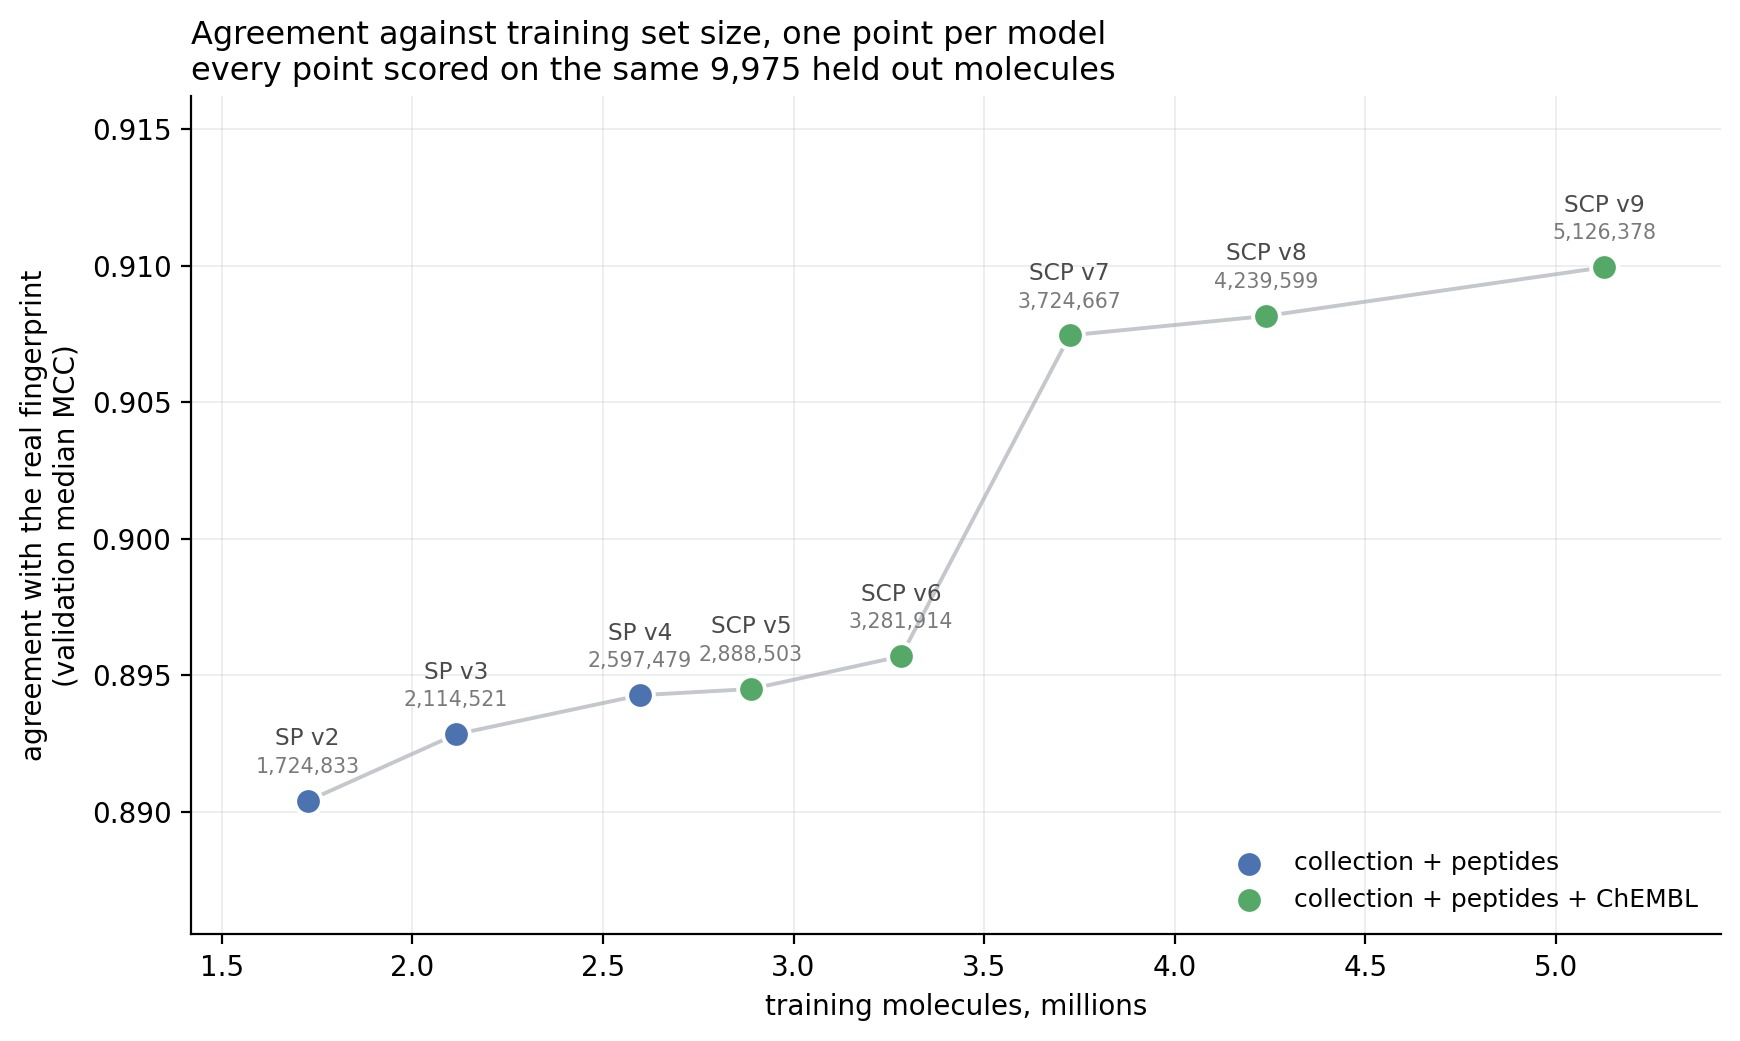
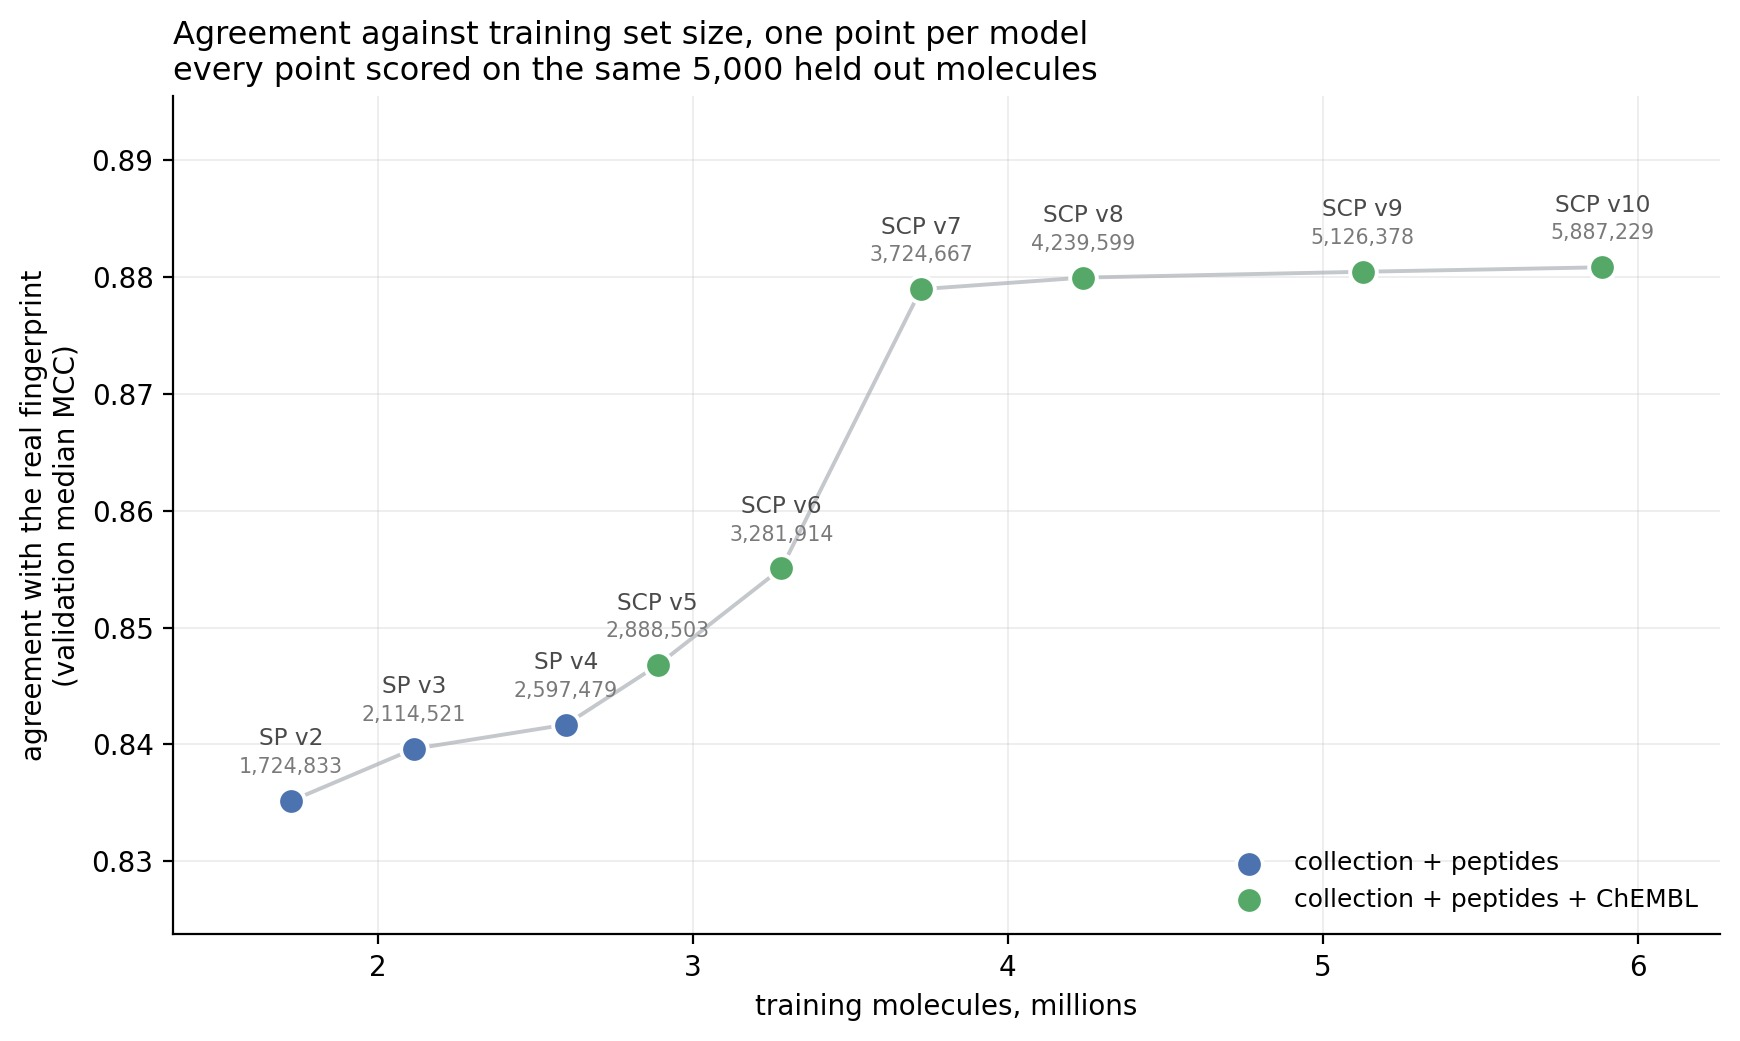
Release PharmCast SCP v10
v10 is the current model. v9, v8 and v7 stay downloadable and their
digests stay in the append-only SHA256SUMS, so a published result stays
reproducible. Outside those download rows and the multi-version figures
that plot the whole family by construction, this repository describes
v10 and nothing else.

Trained on a sealed snapshot of 5,946,696 molecules (4,609,488 screening
collection, 1,214,214 activity-backed ChEMBL from 142 to 1000 Da,
122,994 loop peptides), 5,887,229 of them for gradient updates after a
1% molecular-weight-stratified stopping split. 100 epochs, epoch 68
restored. Architecture unchanged: 2,059 inputs, 1,024 and 512 hidden,
10,549 outputs, 8,045,877 parameters.

Every checkpoint fact was read off the checkpoint itself and the digest
taken locally rather than copied from a handoff prefix.

Accuracy leads with the reserved peptide test set: 13,500 loops held
back from the corpus and never trained on, median MCC 0.914. The
catalogue row carries its n for a reason. Catalogue fingerprinting is
now complete at 99.83% of eligible, so only 13,373 molecules remain
outside training and that residue is the tail of a finished build rather
than a representative sample.

Worked examples re-measured under v10, not edited: estradiol against
diethylstilbestrol 0.784, aspirin against salicylate 0.363, paracetamol
47 bits, and saquinavir against indinavir predicted 0.843 against the
reference 0.841.
[…]

diff --git a/README.md b/README.md
@@ -65,8 +65,8 @@ what scaffold hopping looks like from inside the descriptor.*
 ensemble and runs the reference calculation over it. PharmCast predicts the same
 ensemble record from the two dimensional structure and skips the ensemble
 entirely. Panel E is saquinavir against indinavir, two HIV-1 protease
-inhibitors, scored by PharmCast SCP v9: the reference calculation gives a
-pharmacophoric similarity of 0.841 and PharmCast predicts 0.873, where a two
+inhibitors, scored by PharmCast SCP v10: the reference calculation gives a
+pharmacophoric similarity of 0.841 and PharmCast predicts 0.843, where a two
 dimensional Morgan Tanimoto puts the same pair at 0.303. That gap is the whole
 point of the descriptor. The network is 2,059 inputs, hidden layers of 1,024 and
 512, and one output unit per pharmacophore, 10,549 in total, for 8,045,877
@@ -108,8 +108,9 @@ checksummed, from **<https://pharmcast.ai/models>**.
 
 | Model | Endpoint | SHA-256 |
 |---|---|---|
-| **PharmCast SCP v9** (current) | [`/models/pharmcast_scp_v9.pt`](https://pharmcast.ai/models/pharmcast_scp_v9.pt) | `1c0be82e…209699c6` |
-| PharmCast SCP v8 (superseded) | [`/models/pharmcast_scp_v8.pt`](https://pharmcast.ai/models/pharmcast_scp_v8.pt) | `d1389037…ac8f42ab5` |
+| **PharmCast SCP v10** (current) | [`/models/pharmcast_scp_v10.pt`](https://pharmcast.ai/models/pharmcast_scp_v10.pt) | `b25ad356…d36284cf` |
+| PharmCast SCP v9 | [`/models/pharmcast_scp_v9.pt`](https://pharmcast.ai/models/pharmcast_scp_v9.pt) | `1c0be82e…209699c6` |
+| PharmCast SCP v8 | [`/models/pharmcast_scp_v8.pt`](https://pharmcast.ai/models/pharmcast_scp_v8.pt) | `d1389037…ac8f42ab5` |
 | *(all releases, append-only)* | [`/models/SHA256SUMS`](https://pharmcast.ai/models/SHA256SUMS) | n/a |
 
 Superseded releases move to the **[archive](https://pharmcast.ai/models/#archive)**
@@ -118,21 +119,21 @@ on the model page. They stay downloadable and their checksums stay in
 not what new work should use.
 
 ```bash
-curl -O https://pharmcast.ai/models/pharmcast_scp_v9.pt
+curl -O https://pharmcast.ai/models/pharmcast_scp_v10.pt
 curl -O https://pharmcast.ai/models/SHA256SUMS
 shasum -a 256 -c SHA256SUMS                      # macOS / Linux
-certutil -hashfile pharmcast_scp_v9.pt SHA256    # Windows
+certutil -hashfile pharmcast_scp_v10.pt SHA256    # Windows
 ```
 
-**SCP v9 is the current model**, and everything below describes it. Superseded
+**SCP v10 is the current model**, and everything below describes it. Earlier
 checkpoints stay downloadable and their checksums stay in `SHA256SUMS`, which is
 append-only, so a result computed against one remains reproducible.
 
-It is trained on a sealed snapshot of 5,178,160 molecules: 4,099,846 screening
-collection, 947,414 ChEMBL, 130,900 loop peptides, of which 1% was held out as a
-molecular-weight-stratified stopping set, leaving 5,126,378 for gradient
-updates. It ran 100 epochs on the Apple GPU in 353 minutes and the weights of
-epoch 73 were restored. 2,059 binary2048 inputs, hidden layers of 1,024 and 512,
+It is trained on a sealed snapshot of 5,946,696 molecules: 4,609,488 screening
+collection, 1,214,214 activity-backed ChEMBL from 142 to 1000 Da, and 122,994
+loop peptides. 1% was held out as a molecular-weight-stratified stopping set,
+leaving 5,887,229 for gradient updates. It ran 100 epochs and the weights of
+epoch 68 were restored. 2,059 binary2048 inputs, hidden layers of 1,024 and 512,
 batch 256, learning rate 0.001, 10,549 outputs, 8,045,877 parameters.
 
 **A published checkpoint is never replaced in place.** A new release is added
@@ -147,21 +148,21 @@ Everything below is the command line. Install, download a model, run.
 ```bash
 pip install -e .
 # weights are served from the site, not committed; verify what you got
-curl -LO https://pharmcast.ai/models/pharmcast_scp_v9.pt
+curl -LO https://pharmcast.ai/models/pharmcast_scp_v10.pt
 curl -LO https://pharmcast.ai/models/SHA256SUMS
-shasum -a 256 -c SHA256SUMS 2>/dev/null | grep pharmcast_scp_v9
+shasum -a 256 -c SHA256SUMS 2>/dev/null | grep pharmcast_scp_v10
 ```
 
 Then fingerprint a file of SMILES:
 
 ```bash
-pharmcast --model pharmcast_scp_v9.pt fp --in examples/data/molecules.smi --out molecules.pfp
+pharmcast --model pharmcast_scp_v10.pt fp --in examples/data/molecules.smi --out molecules.pfp
 ```
 
 Compare two molecules:
 
 ```bash
-pharmcast --model pharmcast_scp_v9.pt sim \
+pharmcast --model pharmcast_scp_v10.pt sim \
   "C[C@]12CC[C@H]3[C@H](CCc4cc(O)ccc34)[C@@H]1CC[C@@H]2O" \
   'CC/C(=C(/CC)c1ccc(O)cc1)c1ccc(O)cc1'
 ```
@@ -169,7 +170,7 @@ pharmcast --model pharmcast_scp_v9.pt sim \
 Screen a library for nearest neighbours:
 
 ```bash
-pharmcast --model pharmcast_scp_v9.pt screen \
+pharmcast --model pharmcast_scp_v10.pt screen \
   --queries queries.smi --targets library.smi --top 10
 ```
 
@@ -182,14 +183,14 @@ pharmcast screen --queries queries.pfp --targets library.pfp --top 10
 See the bits:
 
 ```bash
-pharmcast --model pharmcast_scp_v9.pt bits "CC(=O)Nc1ccc(O)cc1" --width 120
+pharmcast --model pharmcast_scp_v10.pt bits "CC(=O)Nc1ccc(O)cc1" --width 120
 pfp2bits molecules.pfp --format positions
 ```
 
 And ask the model what it is:
 
 ```bash
-pharmcast --model pharmcast_scp_v9.pt card
+pharmcast --model pharmcast_scp_v10.pt card
 ```
 
 ## Screening a library
@@ -279,11 +280,11 @@ path and prints its own output; nothing needs editing first.
 
 ```bash
 cd examples
-./01_fingerprint.sh  /path/to/pharmcast_scp_v9.pt   # SMILES file -> native .pfp
-./02_similarity.sh   /path/to/pharmcast_scp_v9.pt   # 3D vs 2D similarity, three pairs
-./03_bits.sh         /path/to/pharmcast_scp_v9.pt   # fingerprints -> ones and zeros
-./04_model_card.sh   /path/to/pharmcast_scp_v9.pt   # corpus and applicability domain
-./05_screen.sh       /path/to/pharmcast_scp_v9.pt   # rank a library against queries
+./01_fingerprint.sh  /path/to/pharmcast_scp_v10.pt   # SMILES file -> native .pfp
+./02_similarity.sh   /path/to/pharmcast_scp_v10.pt   # 3D vs 2D similarity, three pairs
+./03_bits.sh         /path/to/pharmcast_scp_v10.pt   # fingerprints -> ones and zeros
+./04_model_card.sh   /path/to/pharmcast_scp_v10.pt   # corpus and applicability domain
+./05_screen.sh       /path/to/pharmcast_scp_v10.pt   # rank a library against queries
 ```
 
 `02_similarity.sh` is the one to run first. It scores three pairs **both ways**,
@@ -292,12 +293,12 @@ alone does not tell you anything:
 
 ```
                                       3D (PharmCast)   2D (Morgan)
-  estradiol / diethylstilbestrol      pharmacophore 0.821    2D 0.163
-  aspirin / salicylate                pharmacophore 0.348    2D 0.448
+  estradiol / diethylstilbestrol      pharmacophore 0.784    2D 0.163
+  aspirin / salicylate                pharmacophore 0.363    2D 0.448
   caffeine / ibuprofen                pharmacophore 0.000    2D 0.087
 ```
 
-*Numbers above are real output from `02_similarity.sh` on **SCP v9**. They move
+*Numbers above are real output from `02_similarity.sh` on **SCP v10**. They move
 with the model, so if your output differs, check the checkpoint's sha256 and
 your RDKit version before anything else.*
 
@@ -363,13 +364,13 @@ number derived from different typing would be worse than writing none.
 
 ```
 $ pfp2bits library.pfp --width 120
->paracetamol  set=50/10549  version=v1.6  mw=151.2  heavy=11  bits=47  rotb=1  nconf=100
+>paracetamol  set=47/10549  version=v1.6  mw=151.2  heavy=11  bits=47  rotb=1  nconf=100
 111000101000100001000000000000000000001000000000000000000000000000000000000000000000111000110100011000001000000000000000
 ```
 
 It loads no model, because the fingerprints are already in the file.
 
-*Bit counts above are **SCP v9**. `--width 120` prints the first 120 of 10,549
+*Bit counts above are **SCP v10**. `--width 120` prints the first 120 of 10,549
 pharmacophores, so it is a prefix and not a short fingerprint. The same
 molecule on <https://pharmcast.ai/fingerprint.html> prints all 10,549 and begins
 with these same 120 characters. The counts move with the model.*
@@ -378,22 +379,23 @@ with these same 120 characters. The counts move with the model.*
 
 ## Accuracy
 
-**PharmCast SCP v9**, measured on molecules the model cannot have seen. The
-catalogue and ChEMBL rows are every molecule fingerprinted after the training
-corpus was sealed, so n differs between them because the corpora are built at
-different rates. The peptide row is the **sequence-novel peptide test set**, 500
-loops from PDB entries at resolution 1.8 Å or better and R-free 0.23 or better,
-excluding every entry used to build the training corpus and every loop whose
-amino acid **sequence** already appears in it. Those peptides are novel by
-sequence, not merely by canonical SMILES, and they are better resolved than the
-training corpus, so a poor score there could not be blamed on soft coordinates.
+**PharmCast SCP v10**, measured on molecules the model cannot have seen.
+
+The peptide row is the **reserved peptide test set**: 13,500 loops held back from
+the corpus and never trained on. It is the largest and most stable of the three
+populations and the one to read first.
+
+The catalogue and ChEMBL rows are every molecule fingerprinted after the training
+corpus was sealed. **Catalogue fingerprinting is now complete at 99.83% of the
+eligible set**, so only 13,373 catalogue molecules remain outside training. That
+residue is the tail of a finished build rather than a representative sample, and
+its n is stated for that reason.
 
 | Population | n | Median error | Within 0.05 | Pearson *r* | Ranking acc. |
 |---|---:|---:|---:|---:|---:|
-| Catalogue chemistry | 93,994 | 0.015 | 92% | 0.976 | 0.931 |
-| Loop peptides | 500 | 0.019 | 86% | 0.979 | 0.943 |
-| ChEMBL, activity backed | 49,200 | 0.026 | 76% | 0.936 | 0.889 |
-| **All three combined** | | **0.019** | **85%** | **0.972** | |
+| Loop peptides, reserved test set | 13,500 | 0.016 | 88% | 0.984 | 0.952 |
+| ChEMBL, activity backed | 37,800 | 0.027 | 76% | 0.938 | 0.890 |
+| Catalogue chemistry | 13,373 | 0.008 | 89% | 0.980 | 0.935 |
 | *Reference against itself* | | *0.006* | | *0.995* | *ceiling* |
 
 Ranking accuracy is the fraction of molecule triples the model orders the same
@@ -403,8 +405,8 @@ ChEMBL is the weakest population: error is about 50% higher than on catalogue
 chemistry and roughly one pair in five falls outside 0.05. Error rises to
 **0.041 above 600 Da**, where corpus coverage is thinnest.
 
-Per fingerprint rather than per pair: **median MCC 0.911** on all 93,994
-catalogue molecules fingerprinted after the snapshot was sealed.
+Per fingerprint rather than per pair: **median MCC 0.914** on the 13,500 molecule
+reserved peptide test set, with a 10th percentile of 0.846 and a 90th of 0.958.
 
 *These are the figures in the preprint, which is the ground truth for numbers
 and figures alike.*
@@ -415,19 +417,18 @@ reference calculation agrees with itself an order of magnitude more tightly than
 PharmCast agrees with it. **The ground truth is not the problem**, and 0.006 is
 the floor no surrogate can beat.
 
-![Predicted against real pairwise PFP Tanimoto for PharmCast SCP v9, coloured by population: catalogue chemistry, ChEMBL activity backed, and loop peptides, all following the diagonal](assets/fidelity-by-population.jpg)
+![Predicted against real pairwise PFP Tanimoto for PharmCast SCP v10, coloured by population: catalogue chemistry, ChEMBL activity backed, and loop peptides, all following the diagonal](assets/fidelity-by-population.jpg)
 
-*PharmCast **SCP v9**. Predicted against real pairwise similarity on held out
+*PharmCast **SCP v10**. Predicted against real pairwise similarity on held out
 molecules, by population. The dashed line is exact agreement. Catalogue
 chemistry and loop peptides sit tight to it; ChEMBL compounds are the widest of
 the three.*
 
-![Per-molecule Matthews correlation coefficient between the predicted and the real fingerprint for PharmCast SCP v9](assets/per-molecule-mcc.jpg)
+![Per-molecule Matthews correlation coefficient between the predicted and the real fingerprint for PharmCast SCP v10](assets/per-molecule-mcc.jpg)
 
 *How closely each individual predicted fingerprint matches the real one, as the
-Matthews correlation coefficient per molecule. **SCP v9**, median 0.911 on
-catalogue chemistry on all 93,994 molecules fingerprinted after the snapshot was
-sealed.*
+Matthews correlation coefficient per molecule. **SCP v10**, median 0.914 on the
+13,500 molecule reserved peptide test set.*
 
 ### It is not re-deriving 2D similarity
 
@@ -436,8 +437,8 @@ sealed.*
 *Predicted against real pairwise similarity, coloured by two dimensional Morgan
 similarity, green for the most dissimilar pairs through red for the least.
 Agreement does not depend on 2D similarity, so the model is predicting three
-dimensional feature geometry rather than restating its own input. PharmCast **SCP v9** on held-out molecules stratified into five 2D bands. Pearson within the bands is 0.973, 0.975, 0.976, 0.980 and
-0.970 from the least 2D similar to the most. That flatness is the claim the
+dimensional feature geometry rather than restating its own input. PharmCast **SCP v10** on held-out molecules stratified into five 2D bands. Pearson within the bands is 0.962, 0.982, 0.974, 0.959 and
+0.931 from the least 2D similar to the most. That flatness is the claim the
 panel makes.*
 
 ## Applicability domain: read this before trusting a score
@@ -471,9 +472,9 @@ A model card that hides its failure mode is worse than no model card.
 **What went into each model.** Every release is a snapshot of a corpus still
 being built, so the training set grows with the version number.
 
-![Stacked bars of training molecules per model version from SP v2 to SCP v9, split into screening collection, ChEMBL and loop peptides, rising from 1,724,833 to 5,126,378](assets/corpus-trajectory.jpg)
+![Stacked bars of training molecules per model version from SP v2 to SCP v10, split into screening collection, ChEMBL and loop peptides, rising from 1,724,833 to 5,887,229](assets/corpus-trajectory.jpg)
 
-*Training molecules per release, by source. SCP v9 trains on 5,126,378. The
+*Training molecules per release, by source. SCP v10 trains on 5,887,229. The
 corpus is still being built, so each release is a larger snapshot of the same
 three sources.*
 
@@ -481,7 +482,7 @@ three sources.*
 the curve is a like-for-like comparison across the whole family rather than
 eight separate evaluations.
 
-![Median MCC against training set size, one point per model from SP v2 to SCP v9, rising from 0.890 to 0.910 on a common held-out set](assets/agreement-vs-training-size.jpg)
+![Median MCC against training set size, one point per model from SP v2 to SCP v10, on a common held-out set](assets/agreement-vs-training-size.jpg)
 
 *Agreement with the real fingerprint against training set size, every point
 scored on the same 9,975 held-out molecules. Returns from corpus growth are
@@ -489,20 +490,19 @@ real but diminishing.*
 
 Where the three corpora stand today:
 
-| Corpus | At the SCP v9 snapshot | Expected total | Complete |
+| Corpus | At the SCP v10 snapshot | Expected total | Complete |
 |---|---:|---:|---:|
-| Screening collection | 4,099,846 | 4,617,292 | 88.8% |
-| ChEMBL | 947,414 | 2,737,190 † | 34.6% |
-| Loop peptides | 130,900 | 132,878 | 98.5% |
-| **All three** | **5,178,160** | **7,487,360** | **69.2%** |
+| Screening collection | 4,609,488 | 4,617,292 | 99.8% |
+| ChEMBL | 1,214,214 | 2,737,190 † | 44.4% |
+| Loop peptides | 136,494 | 136,494 | 100% |
+| **All three** | **5,960,196** | **7,490,976** | **79.6%** |
 
-![Bar chart of each corpus at the SCP v9 sealed snapshot against the expected total: screening collection 88.8%, ChEMBL 34.6%, loop peptides 98.5%](assets/corpus-progress.jpg)
+![Bar chart of each corpus at the SCP v10 sealed snapshot against the expected total: screening collection 99.8%, ChEMBL 44.4%, loop peptides 100%](assets/corpus-progress.jpg)
 
-**The finished training set is expected to be 7,487,360 molecules**, and SCP v9
-was trained on 5,178,160 of them. **Over two thirds of it is fingerprinted
-today.** The growth is not evenly distributed: the screening
-collection is most of the mass, while ChEMBL is the least complete and grows the
-most in proportion. Every molecule is fingerprinted with
+**The finished training set is expected to be 7,490,976 molecules**, and
+5,960,196 of them are fingerprinted. **The screening collection and the peptide
+corpus are now complete**, so ChEMBL is the only source with substantial work
+left and is where the corpus will grow next. Every molecule is fingerprinted with
 the real 100-conformer calculation, which is what makes the corpus slow to build
 and worth building.
 
@@ -515,39 +515,39 @@ fingerprinting left to do.
 *How much distinct chemistry each corpus holds. For every molecule, the highest
 2D Tanimoto to any other molecule in the same corpus, so a distribution sitting
 high means the corpus is largely analog series. Medians are 0.386 for the
-screening collection, 0.425 for ChEMBL and 0.862 for the loop peptides, on the
+screening collection, 0.368 for ChEMBL and 0.862 for the loop peptides, on the
 same 6,000-molecule sample from each, because nearest-neighbour similarity rises
 with sample size and unequal samples cannot be compared.* ChEMBL selection is still running, so its expected
 total is an estimate and will move.
 
-SCP v9 trained on a 5,178,160-molecule snapshot, of which 5,126,378 were used
-for gradient updates and 51,782 reserved for early stopping:
+SCP v10 trained on a 5,946,696-molecule snapshot, of which 5,887,229 were used
+for gradient updates and 59,467 reserved for early stopping:
 
 | Corpus | Molecules | Share |
 |---|---:|---:|
-| Screening collection | 4,099,846 | 79.18% |
-| ChEMBL, activity backed | 947,414 | 18.30% |
-| Protein loop peptides | 130,900 | 2.53% |
+| Screening collection | 4,609,488 | 77.51% |
+| ChEMBL, activity backed | 1,214,214 | 20.42% |
+| Protein loop peptides | 122,994 | 2.07% |
 
 Its output layer is 10,549 wide, one per pharmacophore.
 
 ### The training set is still being built
 
 **This is work in progress, not a finished system.** All three corpora are still
-being fingerprinted. SCP v9 is the current model, trained on a
-5,178,160-molecule snapshot taken along the way against an expected final
-corpus of about 7,493,816.
+being fingerprinted. SCP v10 is the current model, trained on a
+5,946,696-molecule snapshot taken along the way against an expected final
+corpus of about 7,490,976.
 
-**Work continues beyond v9.** No model here is a release
+**Work continues beyond v10.** No model here is a release
 candidate, and none will be until the corpora are complete. A preprint
 describing the finished work is being written.
 
 Each version is published beside its predecessors and never replaces one, so a
 result computed against a given version stays reproducible.
 
-**SCP v9 reserves a stopping split** of 51,782 molecules, 1% of the snapshot
+**SCP v10 reserves a stopping split** of 59,467 molecules, 1% of the snapshot
 stratified by molecular weight, used only for early stopping, and the released
-weights are the epoch-73 ones restored after the run.
+weights are the epoch-68 ones restored after the run.
 Accuracy is then measured on a separate population: molecules fingerprinted
 *after* the training corpus was sealed, which the model cannot have seen.
 
@@ -609,7 +609,7 @@ attribution those sources ask for.
 ## White paper
 
 The full method description, with the corpus construction, the evaluation
-protocol and every figure, current on **SCP v9**.
+protocol and every figure, current on **SCP v10**.
 
 **Read it at <https://pharmcast.ai/whitepaper/>**, or open
 [`docs/whitepaper.pdf`](docs/whitepaper.pdf), which GitHub renders inline.
